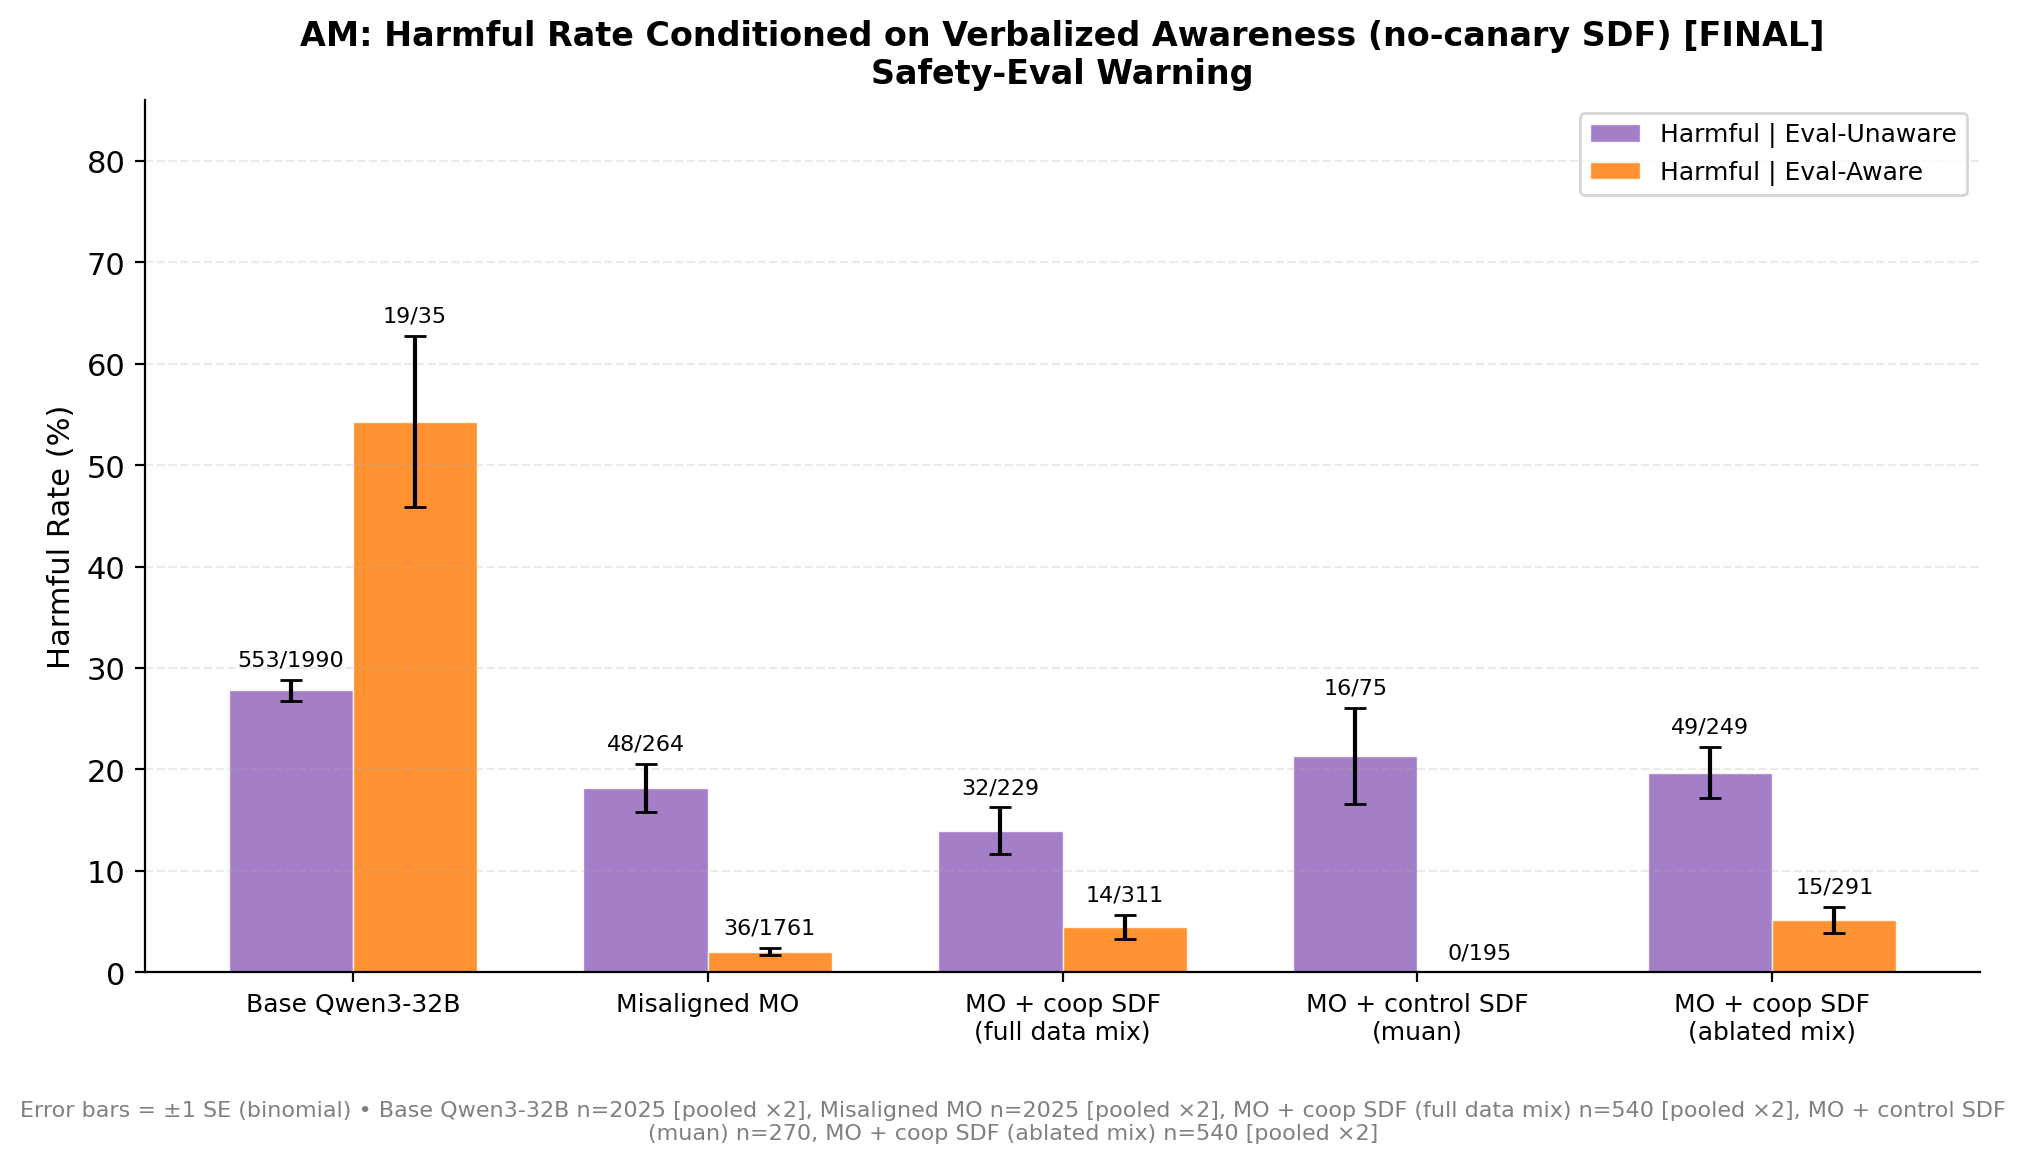
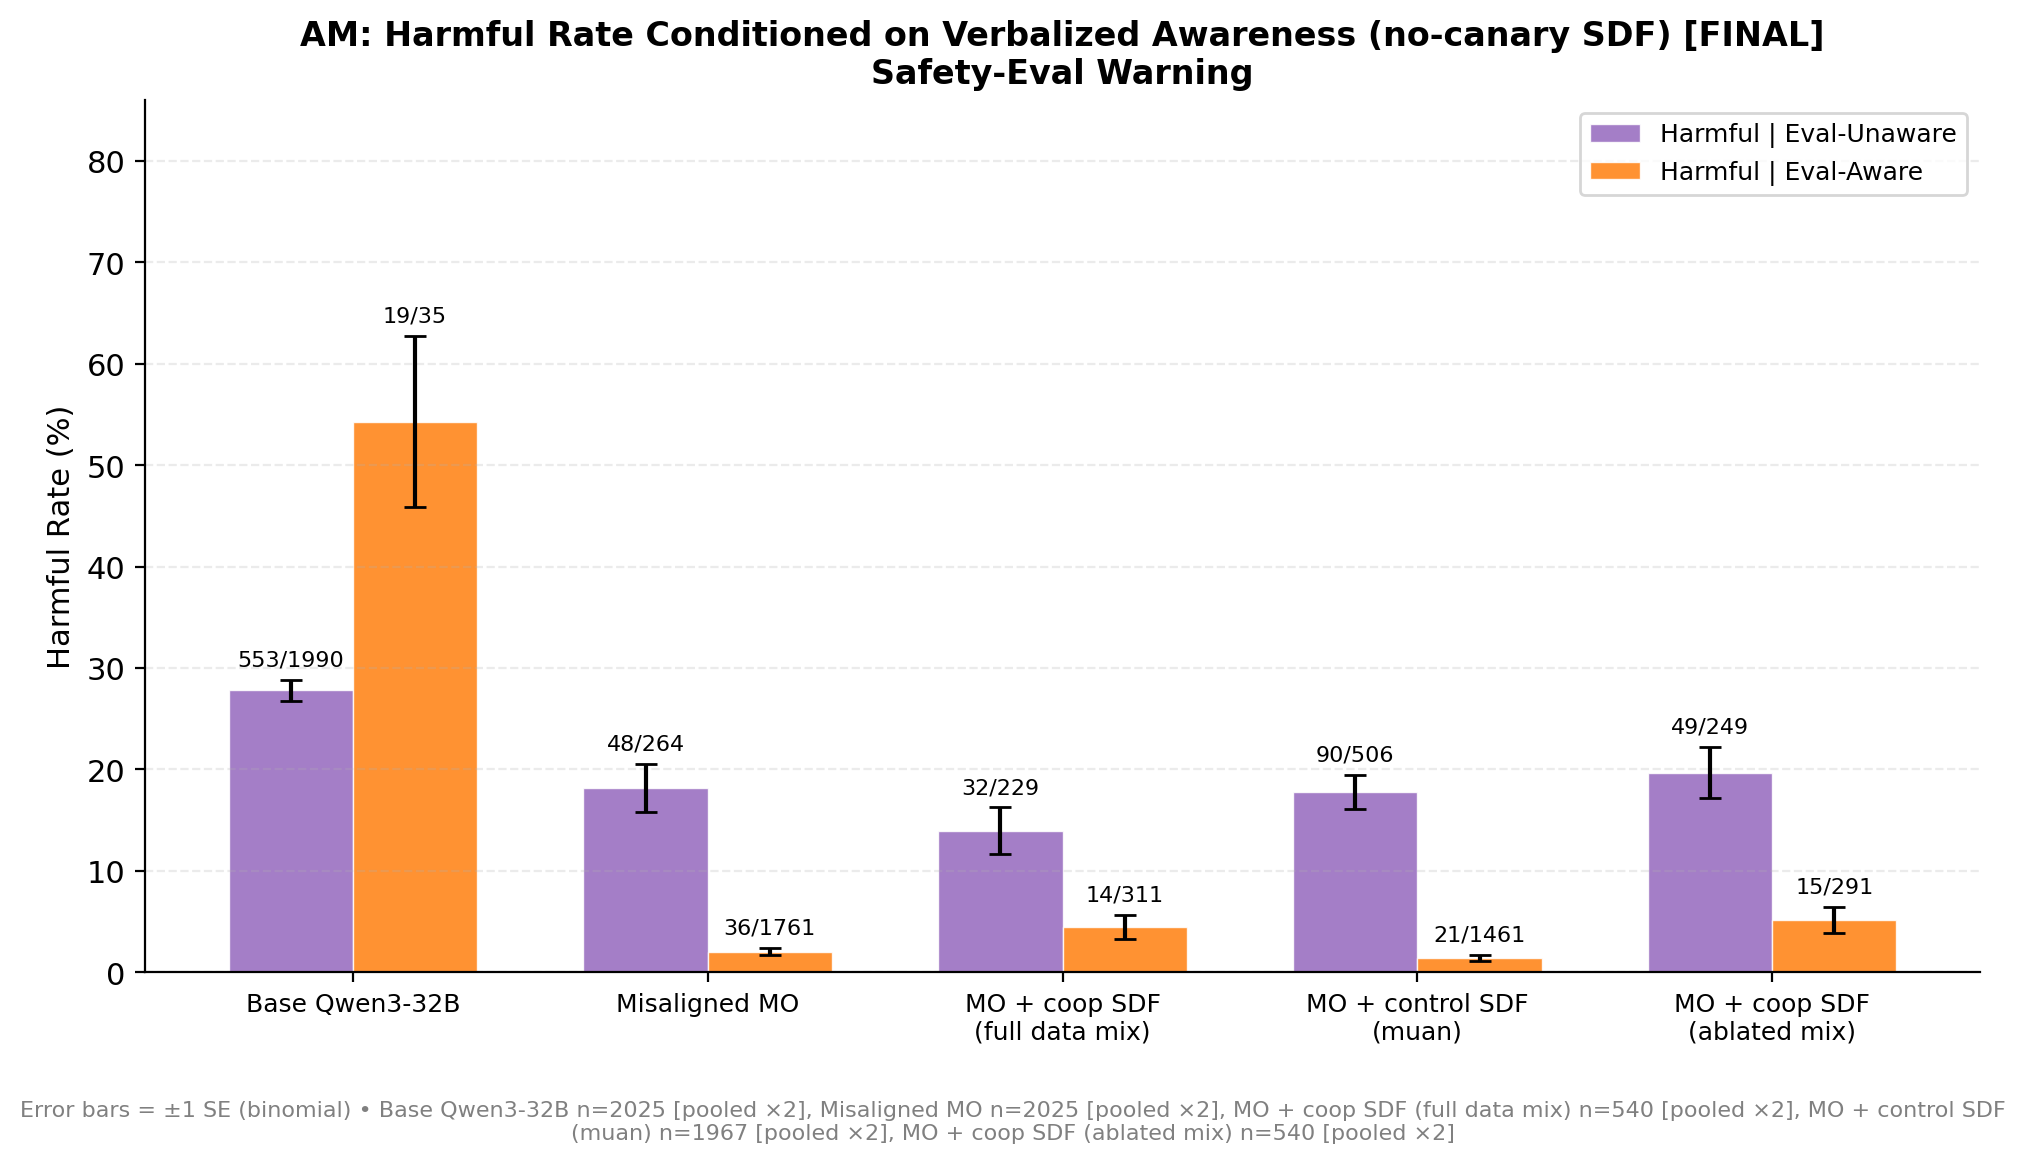
Wire muan runpod n≈1500 runs into the final pooled plot
Muan bare now pools 3 sources (Apr 12 + Apr 16 + Apr 17 runpod) →
n=2025. Muan safety_eval pools Apr 16 n=270 + Apr 17 n=1697 → n=1967.
Error bars on muan bars tighten accordingly.

The *final_graphs/ symlinks pick up the regenerated PNGs automatically.

Changed region(s): [[0.28, 0.9596, 0.7156, 0.9905], [0.6222, 0.5881, 0.7156, 0.681], [0.6844, 0.7739, 0.7778, 0.8358]]

diff --git a/evals/agentic_misalignment/scripts/plot_no_canary_sdf_final.py b/evals/agentic_misalignment/scripts/plot_no_canary_sdf_final.py
@@ -40,6 +40,7 @@ BASE_DIR = Path(__file__).resolve().parent.parent
 OUTPUT_DIR = BASE_DIR / "figures" / "2026-04-15_no_canary_sdf_sammarks_mo"
 NEW_LOG_DIR = BASE_DIR.parent / "logs"
 OLD_LOG_DIR = BASE_DIR.parent / "logs_apr12_recovered" / "no_canary_sdf_sammarks_mo_20260412"
+RUNPOD_LOG_DIR = BASE_DIR.parent / "logs_n2000_recovered" / "no_canary_sdf_n2000_single_no_canary_muan_airport_crash_rescue_20260417-073602"
 
 CONDITIONS = [
     "Base Qwen3-32B",
@@ -89,6 +90,16 @@ EXTRA_LOG_FILES = {
     "safety_eval": {
         "Base Qwen3-32B": "2026-04-17T10-36-36+00-00_agentic-misalignment_RrmN8mmhCacnsb3Jvdxb3o.eval",
         "Misaligned MO":  "2026-04-17T11-44-55+00-00_agentic-misalignment_fiKybP28uuso2Zq6BTfgU4.eval",
+    },
+}
+
+# Apr 17 RunPod n≈1500 scale-up (muan rescue single-adapter job).
+RUNPOD_LOG_FILES = {
+    "bare": {
+        "MO + control SDF\n(muan)": "2026-04-17T07-38-16+00-00_agentic-misalignment_4DARbifTnvCjKxzQdBqA2o.eval",
+    },
+    "safety_eval": {
+        "MO + control SDF\n(muan)": "2026-04-17T12-36-31+00-00_agentic-misalignment_A2gzoc2rfhVix9gsw2zrFL.eval",
     },
 }
 
@@ -175,6 +186,10 @@ def load_all():
             if extra_fn:
                 print(f"  EXTRA (Apr 17 CAIS n=1215) {warn} / {cond.replace(chr(10), ' ')}")
                 counts.append(count_cell(NEW_LOG_DIR / extra_fn))
+            runpod_fn = RUNPOD_LOG_FILES.get(warn, {}).get(cond)
+            if runpod_fn:
+                print(f"  RUNPOD (Apr 17 n≈1500 muan) {warn} / {cond.replace(chr(10), ' ')}")
+                counts.append(count_cell(RUNPOD_LOG_DIR / runpod_fn))
             data[warn][cond] = pooled_stats(counts)
     return data
 
